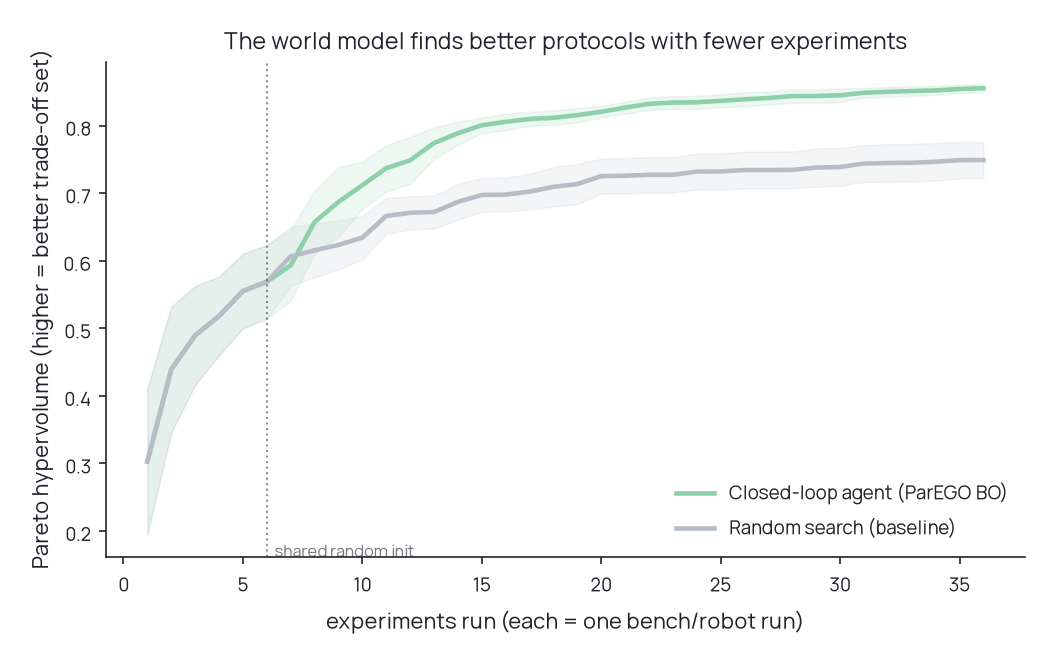
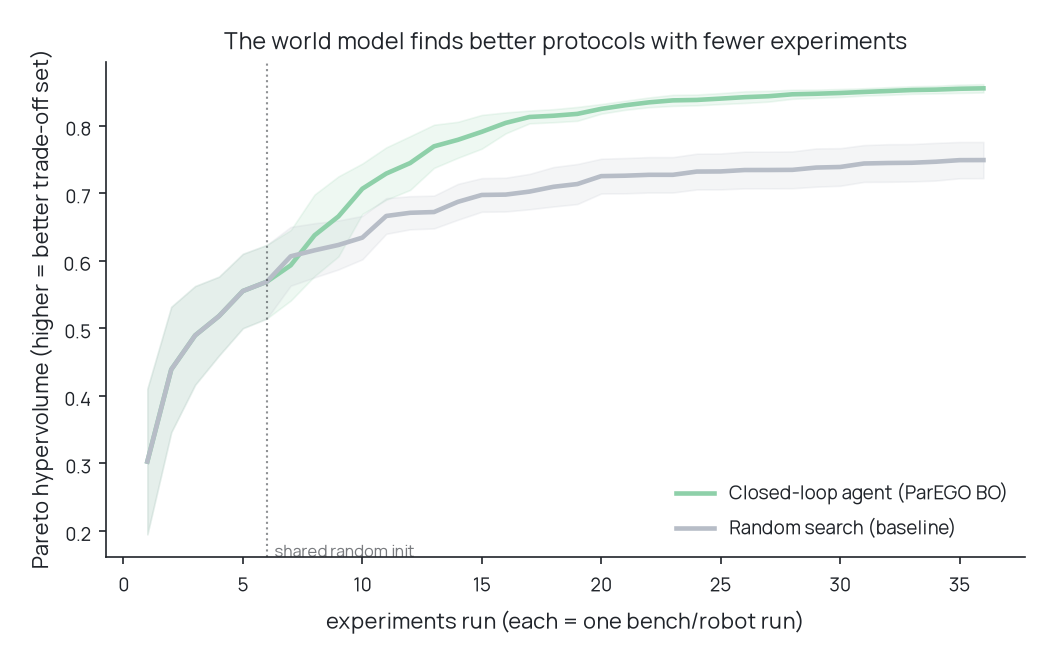
Seed the model fits so the demo repeats, and match the README to the run
The Gaussian-process fits restarted from numpy's unseeded global state, so run_demo.py printed different numbers on every run. The README quoted one of those runs (11 against 16 experiments, 29 percent fewer) and the committed metrics.json held another (12.5 against 15.5, 19 percent). Both fits now take a seed. The run repeats exactly, on two Python and library versions, and the README, metrics.json and the figures all come from it.

Changed region(s): [[0.4876, 0.1212, 0.8838, 0.1818], [0.2743, 0.2424, 0.3962, 0.3939], [0.3962, 0.1818, 0.4876, 0.2424]]

diff --git a/lab-world-model/labworld/optimize.py b/lab-world-model/labworld/optimize.py
@@ -60,14 +60,17 @@ def _tchebycheff(Yu: np.ndarray, w: np.ndarray, rho: float = 0.05) -> np.ndarray
     return wg.min(axis=1) + rho * wg.sum(axis=1)
 
 
-def _fit_scalar_gp(Xn: np.ndarray, s: np.ndarray) -> GaussianProcessRegressor:
+def _fit_scalar_gp(Xn: np.ndarray, s: np.ndarray, seed: int) -> GaussianProcessRegressor:
     kernel = (
         ConstantKernel(1.0, (1e-2, 1e3))
         * Matern(length_scale=np.ones(len(assay.PARAM_NAMES)), nu=2.5)
         + WhiteKernel(0.05, (1e-4, 1.0))
     )
+    # random_state seeds the optimizer restart. Without it the restart draws
+    # from numpy's global state and every run of the demo gives new numbers.
     gp = GaussianProcessRegressor(kernel=kernel, normalize_y=True,
-                                  n_restarts_optimizer=1, alpha=1e-8)
+                                  n_restarts_optimizer=1, alpha=1e-8,
+                                  random_state=seed)
     with warnings.catch_warnings():
         warnings.simplefilter("ignore")
         gp.fit(Xn, s)
@@ -117,12 +120,12 @@ def parego(n_iter: int, seed: int, n_init: int = 6, n_cand: int = 1500) -> RunRe
     X = assay.sample_design(n_init, rng)
     Y = assay.run_assay(X, rng)
 
-    for _ in range(n_iter):
+    for it in range(n_iter):
         Yu = objectives_to_unit(Y)
         w = rng.dirichlet(np.ones(len(assay.OBJECTIVES)))
         s = _tchebycheff(Yu, w)
         Xn = normalize_X(X)
-        gp = _fit_scalar_gp(Xn, s)
+        gp = _fit_scalar_gp(Xn, s, seed=seed * 1000 + it)
 
         # Candidate pool: random draws plus local perturbations of the incumbent.
         cand = assay.sample_design(n_cand, rng)

diff --git a/lab-world-model/labworld/world_model.py b/lab-world-model/labworld/world_model.py
@@ -33,8 +33,9 @@ def normalize_X(X: np.ndarray) -> np.ndarray:
 class WorldModel:
     """One GP per objective, sharing a common input normalization."""
 
-    def __init__(self, objectives: tuple[str, ...] = OBJECTIVES):
+    def __init__(self, objectives: tuple[str, ...] = OBJECTIVES, seed: int = 0):
         self.objectives = objectives
+        self.seed = seed
         self.gps: dict[str, GaussianProcessRegressor] = {}
 
     def _new_gp(self) -> GaussianProcessRegressor:
@@ -48,6 +49,7 @@ class WorldModel:
             normalize_y=True,
             n_restarts_optimizer=2,
             alpha=1e-8,
+            random_state=self.seed,  # seeded restarts, so the gate repeats
         )
 
     def fit(self, X: np.ndarray, Y: dict[str, np.ndarray]) -> "WorldModel":

diff --git a/README.md b/README.md
@@ -18,9 +18,9 @@ Each folder is self-contained and has its own README and requirements.
 A closed-loop assay optimizer: a Gaussian-process world model of a low-input
 library-prep assay, multi-objective Bayesian optimization (ParEGO), and a
 split-conformal accept / reject / escalate QC gate with a coverage guarantee.
-Reaches a release-grade protocol in about 29 percent fewer experiments than random,
-and auto-decides roughly 79 percent of protocols at zero error while escalating the
-rest to the bench. sklearn / scipy, runs in about 20 seconds.
+In the 12-seed demo it reaches a release-grade protocol in about 19 percent fewer
+experiments than random, and auto-decides roughly 79 percent of protocols at zero
+error while escalating the rest to the bench. sklearn / scipy, runs in about 20 seconds.
 
 ### [plm-design-loop](plm-design-loop)
 A protein language model design loop: ESM-2 zero-shot deep-mutational scanning

diff --git a/lab-world-model/README.md b/lab-world-model/README.md
@@ -49,8 +49,10 @@ ML is load-bearing at wet-lab data volumes:
 | metric | closed-loop agent | random search |
 | --- | --- | --- |
 | Pareto hypervolume after 36 runs | 0.86 | 0.75 (+14%) |
-| median experiments to first release-grade protocol | 11 | 16 (~29% fewer) |
-| seeds that never found a passing protocol in budget | 0 / 12 | 2 / 12 |
+| median experiments to first release-grade protocol | 12.5 | 15.5 (~19% fewer) |
+| seeds that never found a passing protocol in budget | 1 / 12 | 2 / 12 |
+
+The run is seeded end to end, so `run_demo.py` prints these numbers every time.
 
 Conformal QC gate (90% target coverage, trained on ~120 runs):
 
